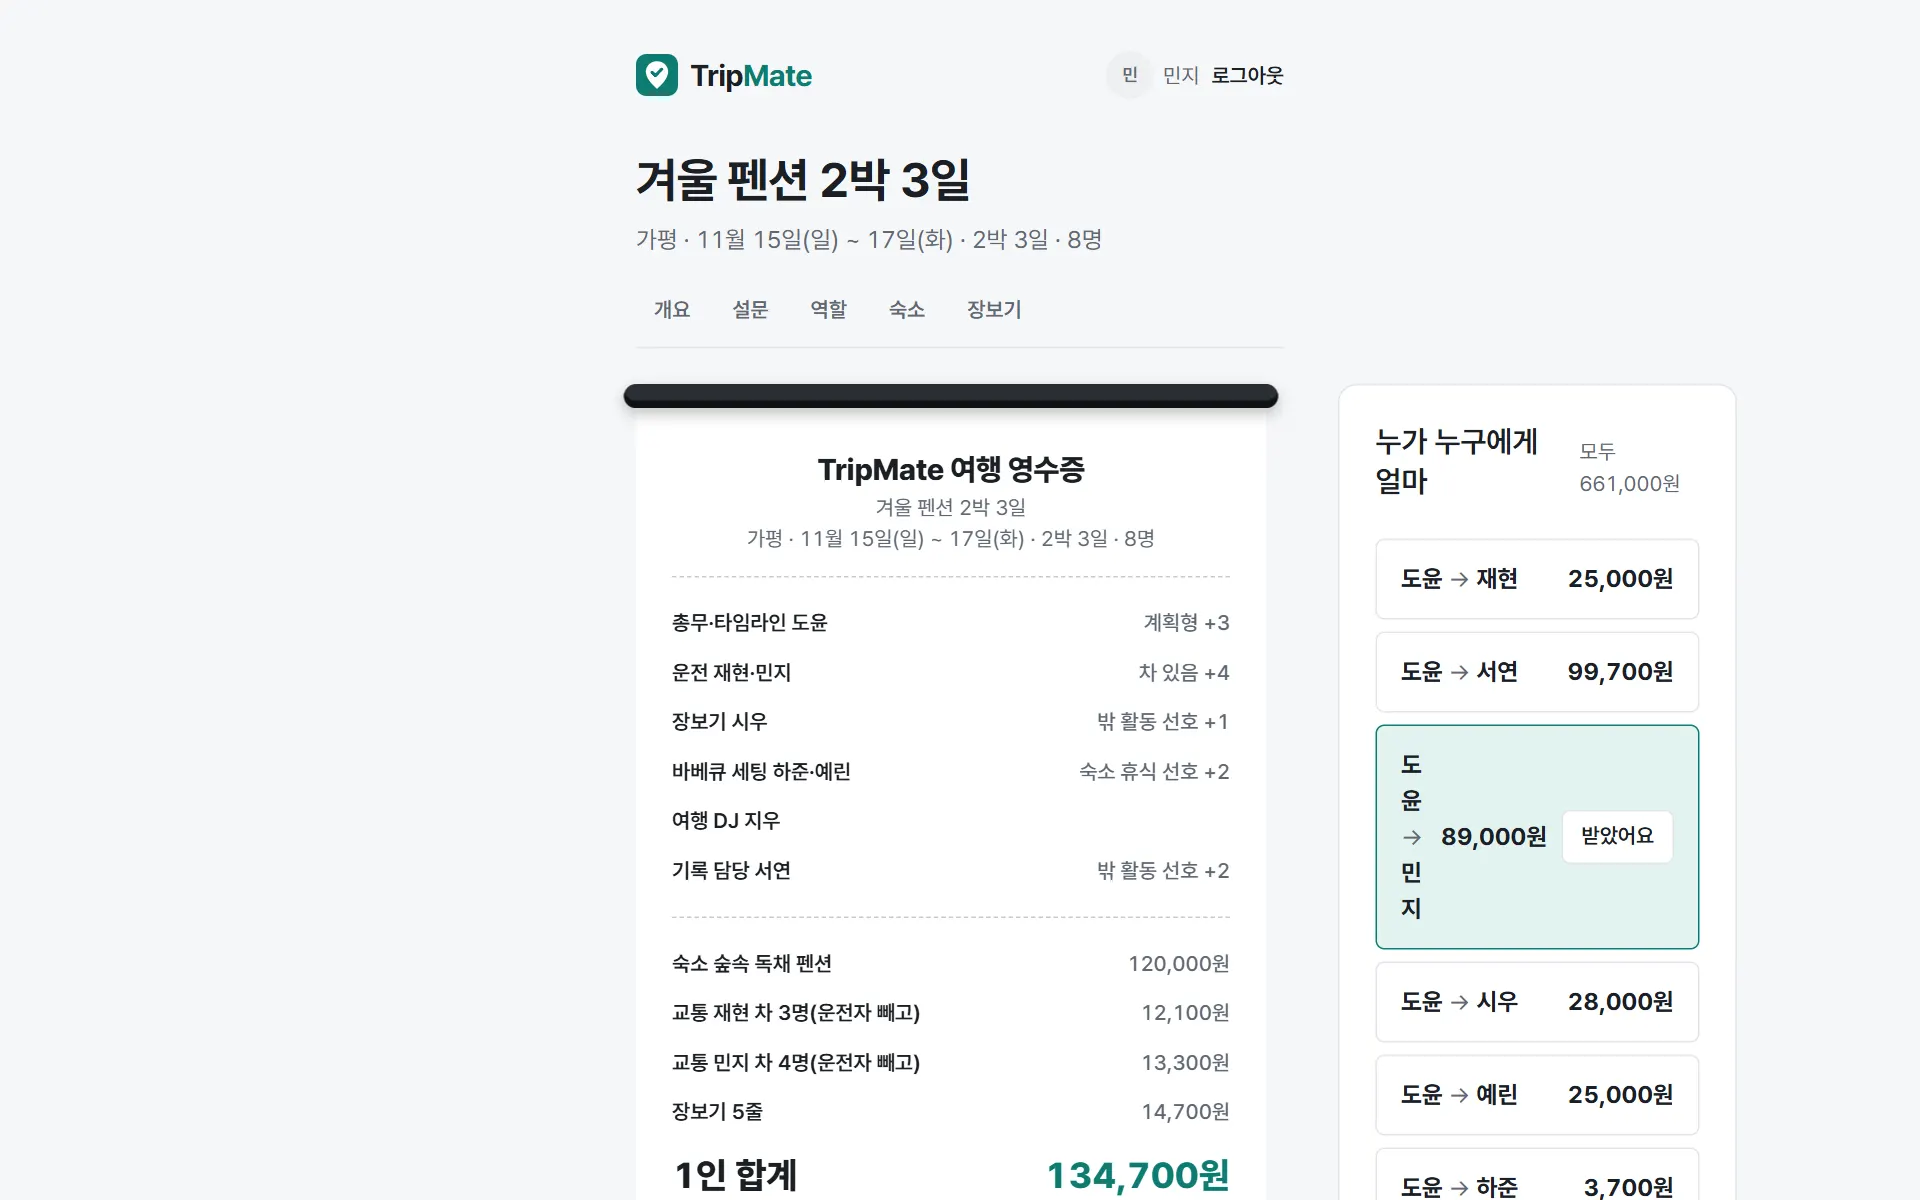
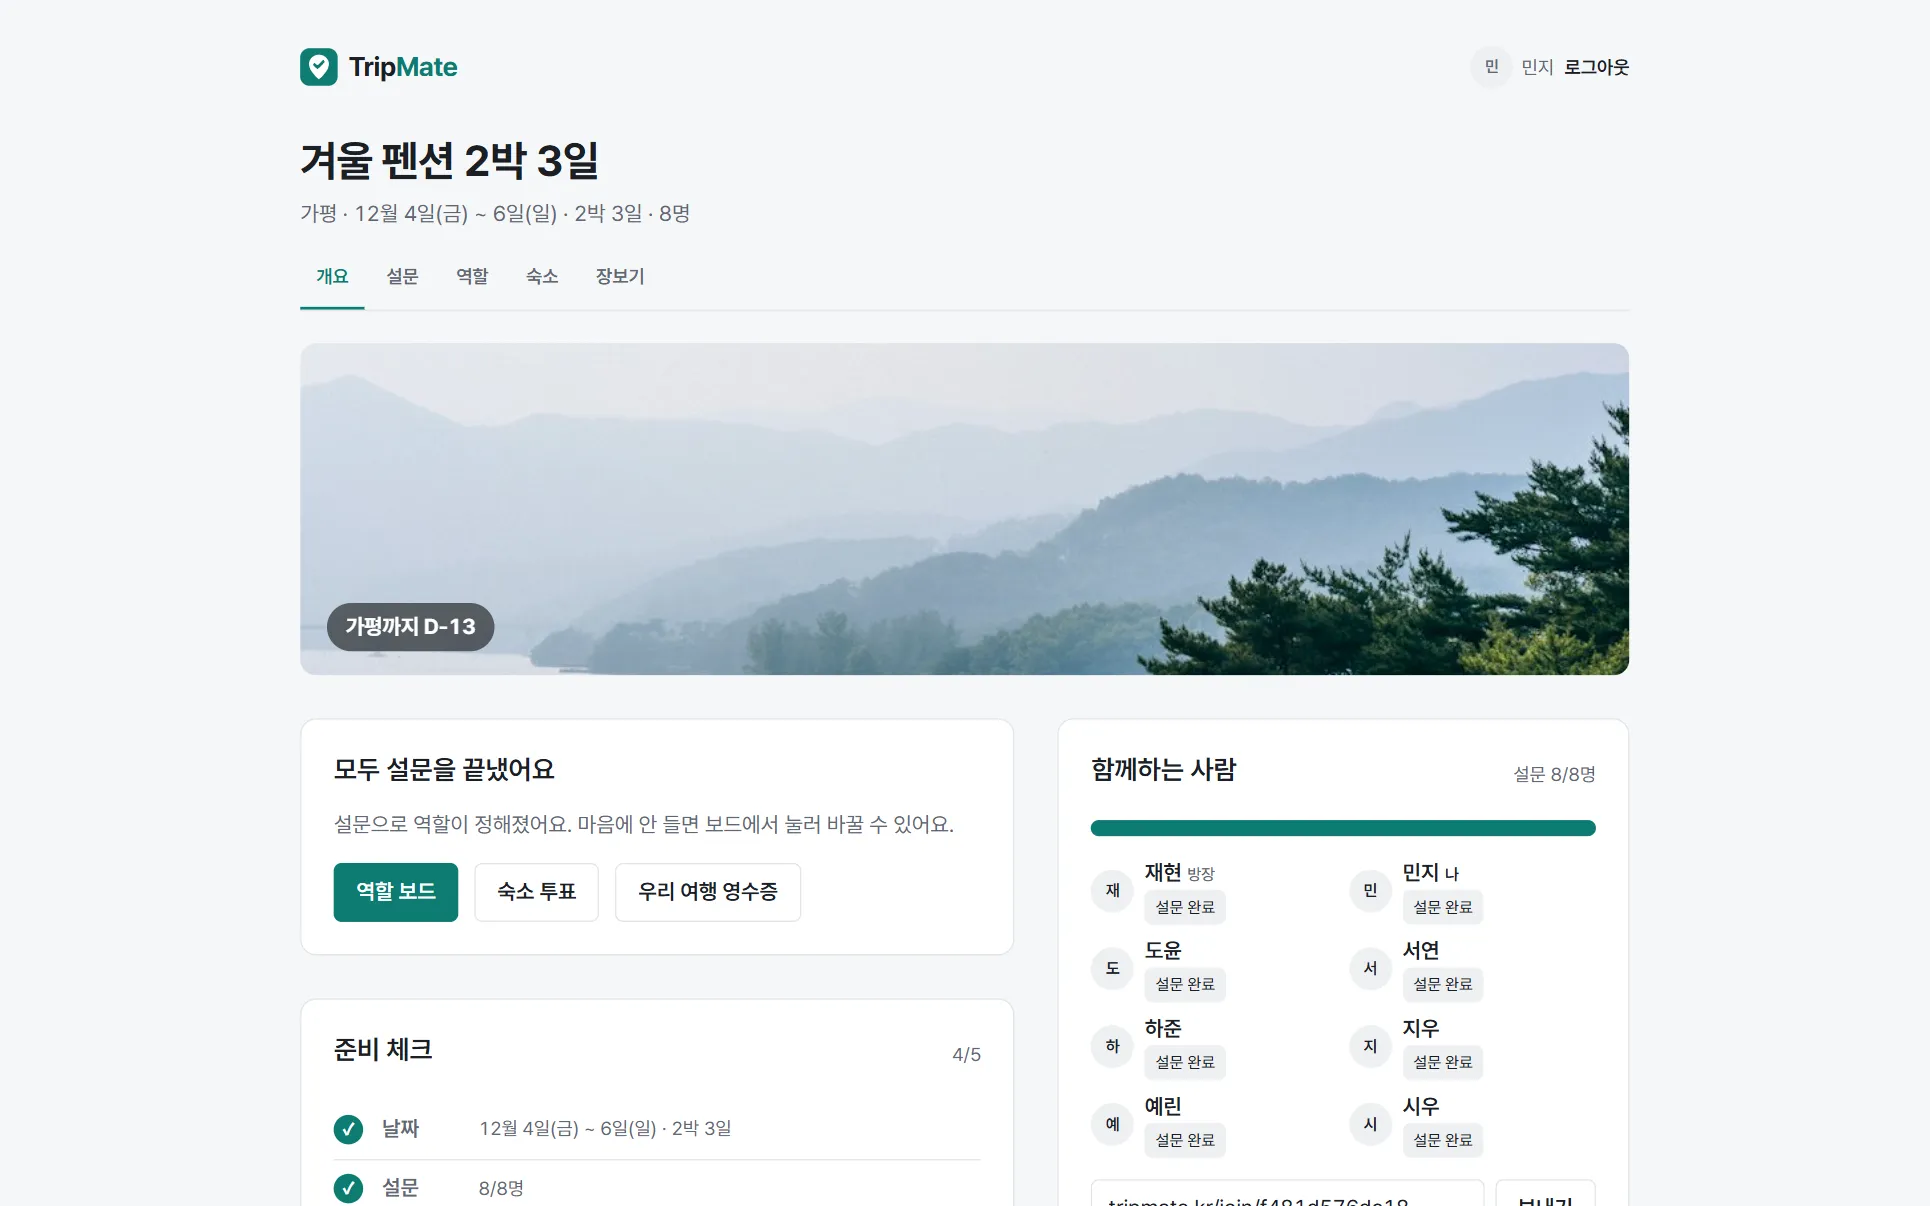
feat: 체험 방을 지금 방처럼, 끝 절 노트북은 PC 화면으로
- 체험 방이 개요·역할·숙소·영수증 넷에 날짜·차·회비·장보기가 없어 부실했다(지훈 지적).
  실제 방 개요와 같은 칸·배치로 다시 짰다: 가평 사진과 "가평까지 D-21 · 오전 9시 합정역", 준비 체크
  다섯 줄(누르면 그 탭), 정한 날짜, 함께하는 사람, 모이는 곳·방 규칙, 차 두 대(태우는 곳), 회비(콕
  찌르기, 냈어요), 방·침대 뽑기 결과. PC 는 실제 방처럼 왼쪽 할 일 / 오른쪽 사람·차·회비 두 기둥
- 장보기 탭: 8명·7명 마심·2박 양, 맡은 줄은 이름·쓴 돈, 안 맡은 줄은 "내가 살게"(누르면 체험이라는 안내)
- 영수증 탭 이름을 "영수증·정산"으로, 교통은 차마다 줄로(지금 영수증과 같게)
- 탭 칸이 grid 여도 숨김이 이기게(안 그러면 숨긴 개요가 보였다)
- 끝 절 노트북: 영수증 화면을 넣었더니 노트북 안이 좁은 휴대폰 화면처럼 보였다(지훈 지적).
  방 개요를 1440x900 으로 다시 찍어 넣었다. 노트북은 PC 화면, 휴대폰은 휴대폰 화면

1440·375 폭에서 확인했다. 시험 163개 통과.

diff --git a/src/main/resources/templates/trip/demo.html b/src/main/resources/templates/trip/demo.html
@@ -17,41 +17,96 @@
       <button type="button" class="tab active" data-tab="overview" role="tab" aria-selected="true">개요</button>
       <button type="button" class="tab" data-tab="roles" role="tab" aria-selected="false">역할</button>
       <button type="button" class="tab" data-tab="stays" role="tab" aria-selected="false">숙소</button>
-      <button type="button" class="tab" data-tab="receipt" role="tab" aria-selected="false">영수증</button>
+      <button type="button" class="tab" data-tab="shopping" role="tab" aria-selected="false">장보기</button>
+      <button type="button" class="tab" data-tab="receipt" role="tab" aria-selected="false">영수증·정산</button>
     </nav>
   </header>
 
   <main>
-    <!-- 개요 -->
-    <section class="stack" data-panel="overview">
-      <div class="box stack">
-        <h2>모두 설문을 끝냈어요</h2>
-        <p class="muted">마지막 사람이 설문을 끝내자 역할이 저절로 정해졌어요. 마음에 안 들면 보드에서 눌러 바꿔요.</p>
-        <div class="row wrap"><button type="button" class="btn primary" data-goto="roles">역할 보드 보기</button><button type="button" class="btn" data-goto="stays">숙소 투표 보기</button></div>
+    <!-- 개요: 실제 방 개요와 같은 칸·배치(휴대폰은 위아래 한 줄, PC 는 왼쪽 할 일 / 오른쪽 사람·규칙·차·회비).
+         값은 실제 방에서 8명이 끝까지 정했을 때 나오는 것(재현 마포·민지 수원 두 차, 회비 10만 원) -->
+    <section class="stack ov-grid" data-panel="overview">
+      <div class="ov-cover cover-wrap">
+        <img class="cover thin" th:src="@{/img/region/gapyeong.jpg}" alt="안개 낀 북한강과 소나무" width="1200" height="600">
+        <span class="dday">가평까지 D-21 · 오전 9시 합정역</span>
       </div>
-      <!-- 방 규칙: 실제 개요와 같은 칸. 참여자에게 보이는 꼴(방장이 정한 것을 읽기만) -->
-      <div class="box stack">
-        <h2>방 규칙</h2>
-        <p class="muted small">방장이 정해요. 결과 글에도 같이 나가요.</p>
-        <ul class="stack">
-          <li class="between"><span class="strong">운전한 사람 기름값</span><span>빼 줘요</span></li>
-          <li class="between"><span class="strong">전날 빠지면 예약금</span><span>안 돌려줘요</span></li>
-          <li class="between"><span class="strong">술값</span><span>마신 사람만</span></li>
-        </ul>
+      <div class="ov-main">
+        <div class="box stack">
+          <h2>모두 설문을 끝냈어요</h2>
+          <p class="muted">마지막 사람이 설문을 끝내자 역할이 저절로 정해졌어요. 마음에 안 들면 보드에서 눌러 바꿔요.</p>
+          <div class="row wrap"><button type="button" class="btn primary" data-goto="roles">역할 보드 보기</button><button type="button" class="btn" data-goto="stays">숙소 투표 보기</button><button type="button" class="btn" data-goto="receipt">우리 여행 영수증</button></div>
+        </div>
+        <div class="box stack">
+          <div class="between"><h2>준비 체크</h2><span class="muted small">4/5</span></div>
+          <ol class="progress-list">
+            <li><a href="#" class="progress-row done" data-goto="overview"><span class="progress-mark">✓</span><span class="strong">날짜</span><span class="muted small">1월 15일(금) ~ 17일(일) · 2박 3일</span></a></li>
+            <li><a href="#" class="progress-row done" data-goto="overview"><span class="progress-mark">✓</span><span class="strong">설문</span><span class="muted small">8/8명</span></a></li>
+            <li><a href="#" class="progress-row done" data-goto="roles"><span class="progress-mark">✓</span><span class="strong">역할</span><span class="muted small">8명 정해짐</span></a></li>
+            <li><a href="#" class="progress-row done" data-goto="stays"><span class="progress-mark">✓</span><span class="strong">숙소</span><span class="muted small">3곳 · 표 7/8</span></a></li>
+            <li><a href="#" class="progress-row" data-goto="shopping"><span class="progress-mark"></span><span class="strong">장보기</span><span class="muted small">9/15줄 맡음</span></a></li>
+          </ol>
+        </div>
+        <div class="box stack">
+          <h2>날짜 정했어요</h2>
+          <p class="strong">1월 15일(금) ~ 17일(일) · 2박 3일</p>
+          <p class="muted small">8명 중 8명 돼요. 되는 날을 다들 눌러서 겹친 날로 방장이 한 번에 정했어요.</p>
+        </div>
       </div>
-      <div class="box stack">
-        <div class="between small"><span class="strong">설문 진행</span><span class="muted">8/8명</span></div>
-        <div class="bar"><div class="fill" style="width:100%"></div></div>
-        <ul class="grid4">
-          <li class="row"><span class="avatar">재</span><div><div class="strong">재현<span class="tag">방장</span></div><span class="chip on">설문 완료</span></div></li>
-          <li class="row"><span class="avatar">민</span><div><div class="strong">민지</div><span class="chip on">설문 완료</span></div></li>
-          <li class="row"><span class="avatar">도</span><div><div class="strong">도윤</div><span class="chip on">설문 완료</span></div></li>
-          <li class="row"><span class="avatar">서</span><div><div class="strong">서연</div><span class="chip on">설문 완료</span></div></li>
-          <li class="row"><span class="avatar">하</span><div><div class="strong">하준</div><span class="chip on">설문 완료</span></div></li>
-          <li class="row"><span class="avatar">지</span><div><div class="strong">지우</div><span class="chip on">설문 완료</span></div></li>
-          <li class="row"><span class="avatar">예</span><div><div class="strong">예린</div><span class="chip on">설문 완료</span></div></li>
-          <li class="row"><span class="avatar">시</span><div><div class="strong">시우</div><span class="chip on">설문 완료</span></div></li>
-        </ul>
+      <div class="ov-side">
+        <div class="ov-people box stack">
+          <div class="between small"><span class="strong">함께하는 사람</span><span class="muted">설문 8/8명</span></div>
+          <div class="bar"><div class="fill" style="width:100%"></div></div>
+          <ul class="grid4">
+            <li class="row"><span class="avatar">재</span><div><div class="strong">재현<span class="tag">방장</span></div><span class="chip on">설문 완료</span></div></li>
+            <li class="row"><span class="avatar">민</span><div><div class="strong">민지</div><span class="chip on">설문 완료</span></div></li>
+            <li class="row"><span class="avatar">도</span><div><div class="strong">도윤</div><span class="chip on">설문 완료</span></div></li>
+            <li class="row"><span class="avatar">서</span><div><div class="strong">서연</div><span class="chip on">설문 완료</span></div></li>
+            <li class="row"><span class="avatar">하</span><div><div class="strong">하준</div><span class="chip on">설문 완료</span></div></li>
+            <li class="row"><span class="avatar">지</span><div><div class="strong">지우</div><span class="chip on">설문 완료</span></div></li>
+            <li class="row"><span class="avatar">예</span><div><div class="strong">예린</div><span class="chip on">설문 완료</span></div></li>
+            <li class="row"><span class="avatar">시</span><div><div class="strong">시우</div><span class="chip on">설문 완료</span></div></li>
+          </ul>
+        </div>
+        <!-- 방 규칙·모이는 곳: 실제 개요와 같은 칸. 참여자에게 보이는 꼴(방장이 정한 것을 읽기만) -->
+        <div class="box stack">
+          <h2>모이는 곳</h2>
+          <p>오전 9시 · 합정역 2번 출구</p>
+          <h2>방 규칙</h2>
+          <ul class="stack">
+            <li class="between"><span class="strong">운전한 사람 기름값</span><span>빼 줘요</span></li>
+            <li class="between"><span class="strong">전날 빠지면 예약금</span><span>안 돌려줘요</span></li>
+            <li class="between"><span class="strong">술값</span><span>마신 사람만</span></li>
+          </ul>
+        </div>
+        <div class="ov-cars box stack">
+          <h2>차</h2>
+          <p class="muted small">차마다 가까운 곳에서 태워요. 기름값은 그 차에 탄 사람끼리 나눠요.</p>
+          <div class="car stack">
+            <div class="between"><span class="strong">재현 차</span><span class="small muted">4명</span></div>
+            <span class="small">태우는 곳 오전 9시 · 합정역 2번 출구</span>
+            <div class="row wrap"><span class="chip">도윤</span><span class="chip">예린</span><span class="chip">시우</span></div>
+          </div>
+          <div class="car stack mine">
+            <div class="between"><span class="strong">민지 차</span><span class="small muted">4명</span></div>
+            <span class="small">태우는 곳 오전 8시 · 수원역 4번 출구</span>
+            <div class="row wrap"><span class="chip">서연</span><span class="chip">하준</span><span class="chip">지우</span></div>
+          </div>
+          <button type="button" class="link small" data-demo-action>나는 따로 가요(기차·버스)</button>
+        </div>
+        <div class="ov-dues box stack">
+          <h2>회비</h2>
+          <div class="between"><span class="strong">1인 100,000원 · 도윤에게</span></div>
+          <p class="muted small">6/7명 냈어요 · 모인 돈 700,000원(총무 몫 포함)</p>
+          <p class="nudge"><span class="muted small">시우 님이 아직 회비를 안 냈어요</span><button type="button" class="btn small" data-demo-action>콕 찌르기</button></p>
+          <button type="button" class="btn primary block" data-demo-action>100,000원 냈어요</button>
+        </div>
+        <div class="box stack">
+          <div class="between"><h2>방·침대 뽑기</h2><span class="muted small">민지가 뽑음</span></div>
+          <ul class="stack small">
+            <li class="between"><span class="strong">1번 방</span><span>재현 · 도윤 · 하준 · 시우</span></li>
+            <li class="between"><span class="strong">2번 방</span><span>민지 · 서연 · 지우 · 예린</span></li>
+          </ul>
+        </div>
       </div>
     </section>
 
@@ -128,6 +183,36 @@
     </section>
 
     <!-- 영수증: 실제 방의 receipt.js 가 그리는 것과 같은 꼴. 값은 위 예시(역할·숲속 독채 1박 32만원·운전자 빼고 교통비)에서 셈 -->
+    <!-- 장보기: 인원·술 마시는 사람·박 수로 서버가 센 양(8명·7명 마심·2박). 맡은 줄은 이름, 안 맡은 줄은 "내가 살게" -->
+    <section class="stack" data-panel="shopping" hidden>
+      <div class="box stack">
+        <div class="between"><h2>얼마나 사요?</h2><span class="muted small">8명 · 2박 기준</span></div>
+        <div class="between"><span>술 마시는 사람</span><b>7명</b></div>
+        <div class="between"><span>1인 고기</span><b>300g</b></div>
+      </div>
+      <p class="hint">"내가 살게"를 누르면 그 줄은 내가 사 오기로 찜해요. 다른 사람 화면에도 이름이 떠서 겹쳐 사지 않아요.</p>
+      <ul class="shop-list">
+        <li class="shop-group">고기</li>
+        <li class="shop-row taken"><div><span class="strong">삼겹살</span><b class="shop-qty">3.4kg</b></div><span class="muted small">서연이 사요 · 96,000원</span></li>
+        <li class="shop-row"><div><span class="strong">목살</span><b class="shop-qty">1.5kg</b></div><button type="button" class="btn" data-demo-action>내가 살게</button></li>
+        <li class="shop-group">곁들임</li>
+        <li class="shop-row taken"><div><span class="strong">쌈채소</span><b class="shop-qty">4봉</b></div><span class="muted small">서연이 사요</span></li>
+        <li class="shop-row"><div><span class="strong">쌈장</span><b class="shop-qty">1통</b></div><button type="button" class="btn" data-demo-action>내가 살게</button></li>
+        <li class="shop-group">술</li>
+        <li class="shop-row taken"><div><span class="strong">소주</span><b class="shop-qty">10병</b></div><span class="muted small">도윤이 사요 · 21,000원</span></li>
+        <li class="shop-row"><div><span class="strong">맥주 500ml</span><b class="shop-qty">28캔</b></div><button type="button" class="btn" data-demo-action>내가 살게</button></li>
+        <li class="shop-group">바베큐</li>
+        <li class="shop-row taken"><div><span class="strong">숯 3kg</span><b class="shop-qty">4봉</b></div><span class="muted small">하준이 사요 · 18,000원</span></li>
+        <li class="shop-group">챙겨 갈 것</li>
+        <li class="shop-row taken"><div><span class="strong">블루투스 스피커</span><b class="shop-qty">1개</b></div><span class="muted small">지우가 챙겨요</span></li>
+        <li class="shop-row"><div><span class="strong">보드게임·카드</span><b class="shop-qty">1개</b></div><button type="button" class="btn" data-demo-action>내가 챙길게</button></li>
+      </ul>
+      <div class="box stack">
+        <div class="between"><span class="strong">쓴 돈</span><span class="strong">135,000원 · 1인 16,900원</span></div>
+        <p class="muted small">9/15줄 맡음 · 안 맡은 줄은 "내가 살게"를 눌러 주세요</p>
+      </div>
+    </section>
+
     <section class="stack" data-panel="receipt" hidden>
       <div class="receipt-box"><div class="receipt-printer" aria-hidden="true"></div>
       <div class="receipt-feed"><article class="receipt printing">
@@ -143,7 +228,8 @@
         <p class="r-row"><span>기록 담당  시우</span><b>밖 활동 선호 +2</b></p>
         <hr class="receipt-cut">
         <p class="r-row"><span>숙소  숲속 독채 펜션</span><b>80,000원</b></p>
-        <p class="r-row"><span>교통  기름값·통행료(운전자 빼고)</span><b>8,800원</b></p>
+        <p class="r-row"><span>교통  재현 차 4명(운전자 빼고)</span><b>8,800원</b></p>
+        <p class="r-row"><span>교통  민지 차 4명(운전자 빼고)</span><b>9,600원</b></p>
         <p class="r-row"><span>장보기  9줄</span><b>27,500원</b></p>
         <p class="r-total"><span>1인 합계</span><b>116,300원</b></p>
         <hr class="receipt-cut">

diff --git a/src/main/resources/static/js/demo.js b/src/main/resources/static/js/demo.js
@@ -10,7 +10,7 @@ function showTab(name) {
 
 $(function () {
   $('.tab').on('click', function () { showTab(this.dataset.tab); });
-  $('[data-goto]').on('click', function () { showTab(this.dataset.goto); });
+  $('[data-goto]').on('click', function (e) { e.preventDefault(); showTab(this.dataset.goto); });
   $('.member-card, [data-demo-action]').on('click', function () {
     showToast('체험 방이라 바뀌지 않아요. 내 여행방을 만들면 바로 쓸 수 있어요.');
   });

diff --git a/src/main/resources/static/css/style.css b/src/main/resources/static/css/style.css
@@ -1051,3 +1051,6 @@ textarea.paste-box { resize: none; font: inherit; line-height: 1.45; min-height:
 .compare-more > summary::after { content: "+"; font-size: var(--fs-lg); transition: transform var(--dur) var(--ease); }
 .compare-more[open] > summary::after { transform: rotate(45deg); }
 .compare-more[open] > summary { margin-bottom: 12px; }
+
+/* 체험 방: 탭 칸이 grid(.ov-grid)여도 숨김(hidden)이 이기게 */
+[data-panel][hidden] { display: none !important; }
